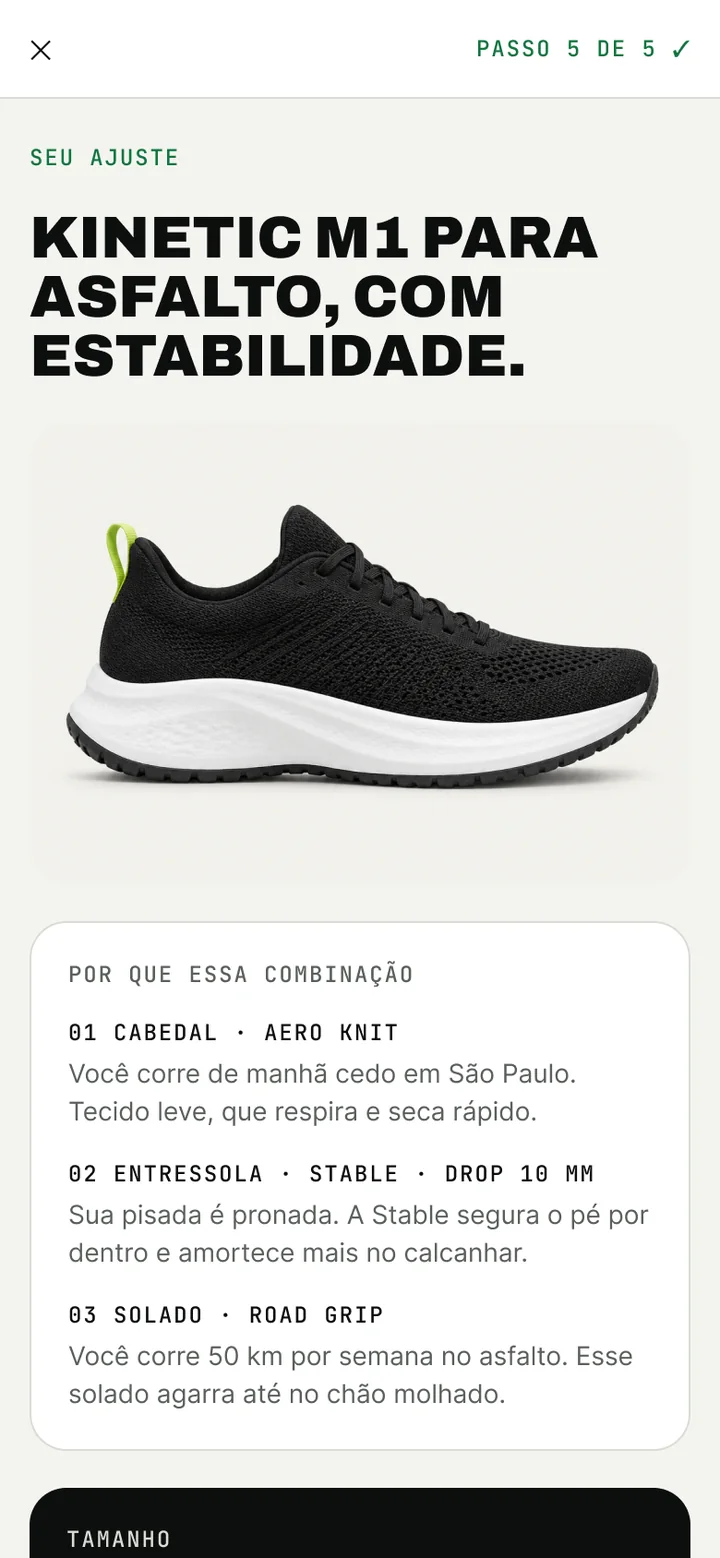
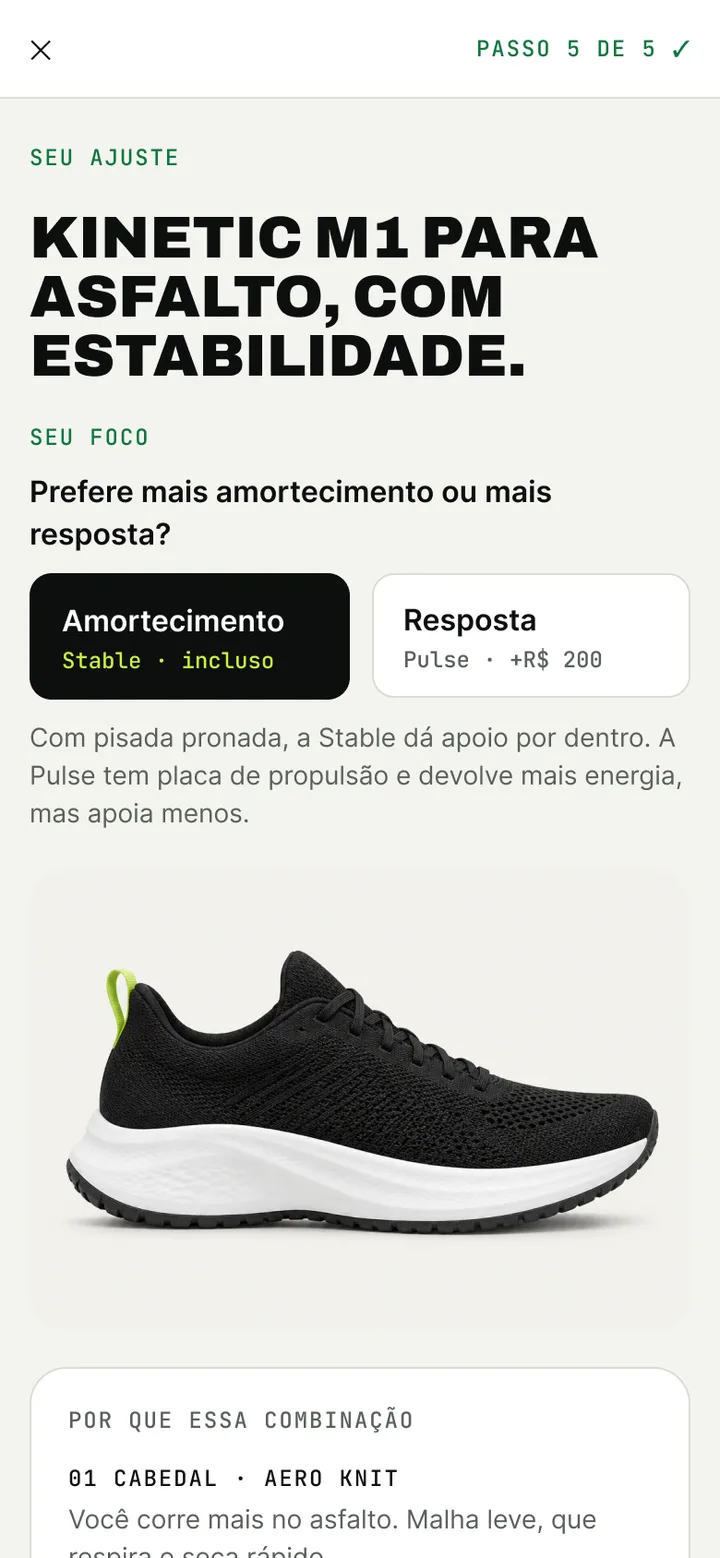
feat(kinetic): releitura do brief, tela do Pix e plano de medição
- Questionário pergunta número (34 a 45) e largura do pé
- Recomendação cita só o que a pessoa respondeu e oferece o foco
  amortecimento (Stable) ou resposta (Pulse)
- Nova tela do Pix com "Copiar código" em destaque
- Tabela com as lacunas do brief e como ficaram
- Seção "Como saber se funcionou" com eventos e metas

Changed region(s): [[0.0306, 0.5854, 0.9778, 1.0], [0.0306, 0.2773, 0.9472, 0.5546]]

diff --git a/estudo-de-caso-kineticlab.html b/estudo-de-caso-kineticlab.html
@@ -340,7 +340,7 @@ footer .wrap{display:flex;flex-wrap:wrap;justify-content:space-between;gap:10px}
     <div class="tldr">
       <div class="card rv"><span class="k">Desafio</span><p>Pelo brief, 68% do abandono de carrinho vem da dúvida de tamanho. E um tênis modular ainda precisa explicar o que cada peça faz antes de alguém pagar R$ 1.599.</p></div>
       <div class="card rv"><span class="k">O que fiz</span><p>Um questionário que recomenda tênis e tamanho, uma página de produto que já abre configurada e um checkout em uma tela, com frete e garantia visíveis antes do pagamento.</p></div>
-      <div class="card rv"><span class="k">Resultado até aqui</span><p class="big">18 <small>telas e estados no protótipo</small></p><p>cobrindo as 3 tarefas do teste de usabilidade com 2 pessoas, marcado para 16/11. O resultado entra nesta página depois.</p></div>
+      <div class="card rv"><span class="k">Resultado até aqui</span><p class="big">20 <small>telas e estados no protótipo</small></p><p>cobrindo as 3 tarefas do teste de usabilidade com 2 pessoas, marcado para 16/11. O resultado entra nesta página depois.</p></div>
     </div>
   </section>
 
@@ -395,12 +395,12 @@ footer .wrap{display:flex;flex-wrap:wrap;justify-content:space-between;gap:10px}
       <div class="part-text rv">
         <span class="tag">1 · Encontre seu ajuste</span>
         <p class="q">"Qual tamanho eu peço?"</p>
-        <p>São cinco perguntas curtas: pisada, número que a pessoa costuma usar, quilômetros por semana, terreno e faixa de peso. Quase todas têm a opção "Não sei", e tocar numa resposta já leva à próxima.</p>
-        <p>A recomendação explica cada peça ("sua pisada é pronada, a Stable segura o pé por dentro"). O tamanho vem com "veste como seu número habitual" e troca grátis em 30 dias.</p>
+        <p>São cinco perguntas curtas: pisada, número e largura do pé, quilômetros por semana, terreno e faixa de peso. Quase todas têm a opção "Não sei". Quando a pergunta tem uma resposta só, tocar numa opção já leva à próxima. Na do tamanho, a pessoa marca o número e a largura e toca em Continuar.</p>
+        <p>A recomendação explica cada peça com o que a pessoa respondeu ("sua pisada é pronada e você prefere amortecimento"). No topo, ela escolhe o foco: amortecimento, com a Stable, ou resposta, com a Pulse, que custa R$ 200 a mais. O tamanho leva a largura em conta: quem tem pé largo sobe um número. Se ficar justo, a troca é grátis em 30 dias.</p>
       </div>
       <div class="phones rv">
         <figure class="phone"><img src="assets/projects/kineticlab-case/quiz.webp" width="360" height="779" loading="lazy" alt="Questionário, passo 1 de 5: Como seu pé toca o chão, com as opções Pronada, Neutra, Supinada e Não sei."></figure>
-        <figure class="phone"><img src="assets/projects/kineticlab-case/recomendacao.webp" width="360" height="779" loading="lazy" alt="Recomendação com o motivo de cada peça e o tamanho 37 em destaque."></figure>
+        <figure class="phone"><img src="assets/projects/kineticlab-case/recomendacao.webp" width="360" height="779" loading="lazy" alt="Recomendação: no topo, a escolha entre Amortecimento (Stable) e Resposta (Pulse, mais R$ 200), e abaixo a foto do tênis."></figure>
       </div>
     </div>
 
@@ -439,6 +439,7 @@ footer .wrap{display:flex;flex-wrap:wrap;justify-content:space-between;gap:10px}
         <span class="tag">4 · Frete e garantia antes de pagar</span>
         <p class="q">"Quanto vou pagar no total?"</p>
         <p>O frete aparece pelo CEP já na página do produto e se repete na sacola e no checkout. O botão diz o valor e a forma de pagamento: "Pagar R$ 1.788 com Pix".</p>
+        <p>No Pix, o botão principal copia o código. Quem compra pelo celular não consegue ler o QR Code na própria tela, então o QR fica embaixo, para quem paga de outro aparelho.</p>
         <p>Quando o pagamento é recusado, a tela diz que nada foi cobrado, que a sacola continua salva e oferece o Pix como saída.</p>
       </div>
       <div class="phones rv">
@@ -459,7 +460,7 @@ footer .wrap{display:flex;flex-wrap:wrap;justify-content:space-between;gap:10px}
 
   <!-- 04 REVISÃO -->
   <section class="wrap" id="revisao">
-    <div class="sec-head rv"><span class="num">04</span><h2>A revisão antes do teste</h2><p>Antes da interface final, reli os wireframes com o brief e o roteiro do teste do lado. Duas tarefas eram impossíveis no wireframe.</p></div>
+    <div class="sec-head rv"><span class="num">04</span><h2>A revisão antes do teste</h2><p>Fiz duas revisões antes do teste. Na primeira, reli os wireframes com o brief e o roteiro do teste do lado, e duas tarefas eram impossíveis. Na segunda, já com as telas prontas, reli o brief item por item.</p></div>
     <div class="part">
       <div class="phones rv">
         <figure><div class="phone"><img src="assets/projects/kineticlab-case/wireframe-pdp.webp" width="360" height="779" loading="lazy" alt="Wireframe da página do produto em tons de cinza, com prévia vazia, chips sem explicação e tamanhos de 35 a 40."></div><figcaption>Wireframe</figcaption></figure>
@@ -474,6 +475,28 @@ footer .wrap{display:flex;flex-wrap:wrap;justify-content:space-between;gap:10px}
             <tr><td class="before">O checkout escondia o frete no resumo recolhido</td><td>Frete e prazo no bloco de entrega e na barra fixa</td></tr>
             <tr><td class="before">Tamanhos de 35 a 40</td><td>De 34 a 45, com rolagem; o esgotado continua na grade, em cinza</td></tr>
             <tr><td class="before">"drop 10", sem unidade</td><td>"drop 10 mm" e a ajuda "O que é drop?"</td></tr>
+          </tbody>
+        </table>
+      </div>
+    </div>
+
+    <h3 class="rv" style="margin-top:48px">A releitura do brief</h3>
+    <p class="rv" style="max-width:68ch">Abri o PDF do brief e conferi cada pedido abrindo as telas no Figma. Achei sete lacunas e corrigi as que não atrapalhavam o teste.</p>
+    <div class="part" style="margin-top:20px">
+      <div class="phones rv">
+        <figure><div class="phone"><img src="assets/projects/kineticlab-case/quiz-tamanho.webp" width="360" height="779" loading="lazy" alt="Passo 2 de 5 do questionário: grade de tamanhos de 34 a 45 e três opções de largura do pé, Fino, Médio e Largo."></div><figcaption>Passo 2 novo</figcaption></figure>
+        <figure><div class="phone"><img src="assets/projects/kineticlab-case/pix.webp" width="360" height="779" loading="lazy" alt="Tela do Pix: total de R$ 1.788, validade do código, botão Copiar código Pix e o QR Code para pagar de outro aparelho."></div><figcaption>Tela do Pix</figcaption></figure>
+      </div>
+      <div class="table-wrap rv">
+        <table class="stack">
+          <thead><tr><th scope="col">O brief pedia</th><th scope="col">Como estava</th><th scope="col">Como ficou</th></tr></thead>
+          <tbody>
+            <tr><td>Tamanho "com base na anatomia do pé"</td><td class="before">Só o número, entre 36, 37 e 38</td><td>Grade de 34 a 45 e a largura do pé</td></tr>
+            <tr><td>Perguntar o foco: amortecimento ou resposta</td><td class="before">Não era perguntado</td><td>Escolha no topo da recomendação. Não virou o sexto passo porque a matriz CSD supõe que mais de cinco passos fazem gente desistir</td></tr>
+            <tr><td>Recomendação baseada nas respostas</td><td class="before">Citava "manhã cedo em São Paulo" e "50 km por semana", que ninguém tinha informado</td><td>Cada motivo cita uma resposta do questionário</td></tr>
+            <tr><td>"Pix com QR Code instantâneo"</td><td class="before">O checkout prometia o QR, mas a tela não existia</td><td>Tela do Pix, com "Copiar código" em destaque</td></tr>
+            <tr><td>Frete "via detecção de localização ou CEP"</td><td class="before">Só CEP</td><td>"Usar minha localização" ao lado do CEP</td></tr>
+            <tr><td>Tíquete maior com o segundo solado</td><td class="before">Oferecido só no desktop</td><td>Fica para depois do teste: na página do produto, um card "Solado Trail Lug + Adicionar" competiria com a tarefa 2, que pede para trocar o solado</td></tr>
           </tbody>
         </table>
       </div>
@@ -543,23 +566,54 @@ footer .wrap{display:flex;flex-wrap:wrap;justify-content:space-between;gap:10px}
     </ol>
   </section>
 
-  <!-- 09 LIMITES -->
+  <!-- 09 MEDIÇÃO -->
+  <section class="wrap" id="medicao">
+    <div class="sec-head rv"><span class="num">09</span><h2>Como saber se funcionou</h2><p>O teste com 2 pessoas mostra onde alguém trava, mas não mede as metas do brief. Para isso, o site precisa registrar alguns eventos, e cada meta precisa de uma conta e de um número que não pode piorar.</p></div>
+    <div class="table-wrap rv">
+      <table class="stack">
+        <thead><tr><th scope="col">Meta do brief</th><th scope="col">Como calcular</th><th scope="col">O que não pode piorar</th></tr></thead>
+        <tbody>
+          <tr><td>Conversão de 1,8% para 3,2%</td><td>Pedidos pagos ÷ sessões</td><td>Pagamentos recusados e Pix expirados</td></tr>
+          <tr><td>Devolução por tamanho de 22% para menos de 6%</td><td>Devoluções por tamanho ou largura ÷ pares entregues, em 30 dias, separando quem seguiu o tamanho recomendado de quem mudou</td><td>Custo de devolver tênis já usado</td></tr>
+          <tr><td>Configurador usado por mais de 45%</td><td>Sessões que concluíram o questionário ou trocaram uma peça ÷ sessões que viram o produto</td><td>Tempo até adicionar à sacola</td></tr>
+          <tr><td>Tíquete médio 25% maior</td><td>Receita ÷ pedidos, com a parcela de pedidos com acessório ou segundo solado</td><td>Conversão</td></tr>
+        </tbody>
+      </table>
+    </div>
+    <p class="cap rv">Para comparar as duas versões num teste A/B, são necessárias umas 2.000 sessões em cada uma para enxergar a conversão subir de 1,8% para 3,2%.</p>
+
+    <h3 class="rv" style="margin-top:40px">Impacto estimado</h3>
+    <div class="table-wrap rv">
+      <table class="price">
+        <thead><tr><th scope="col">A cada 10.000 sessões</th><th scope="col">Pedidos</th><th scope="col">Receita</th></tr></thead>
+        <tbody>
+          <tr><td data-l="Cenário">Hoje, 1,8%</td><td data-l="Pedidos">180</td><td data-l="Receita">R$ 324.000</td></tr>
+          <tr><td data-l="Cenário">Metade do caminho, 2,5%</td><td data-l="Pedidos">250</td><td data-l="Receita">R$ 450.000</td></tr>
+          <tr><td data-l="Cenário">Meta do brief, 3,2%</td><td data-l="Pedidos">320</td><td data-l="Receita">R$ 576.000</td></tr>
+        </tbody>
+      </table>
+    </div>
+    <p class="note rv" style="margin-top:16px"><b>Estimativa:</b> é um cenário montado com os números do brief e tíquete médio de R$ 1.800, o meio da faixa. Não é uma previsão. Antes de ter dados, eu defenderia o do meio.</p>
+  </section>
+
+  <!-- 10 LIMITES -->
   <section class="wrap" id="limites">
-    <div class="sec-head rv"><span class="num">09</span><h2>Limites e perguntas em aberto</h2><p>Antes de chamar o projeto de pronto, faltam estas coisas.</p></div>
+    <div class="sec-head rv"><span class="num">10</span><h2>Limites e perguntas em aberto</h2><p>Antes de chamar o projeto de pronto, faltam estas coisas.</p></div>
     <ul class="open">
       <li class="rv"><span class="lvl alta">Alta</span><b>A pesquisa é simulada</b><p>Personas, entrevistas e citações são fictícias. Até o teste de 16/11, nenhuma pessoa real usou o produto.</p></li>
       <li class="rv"><span class="lvl alta">Alta</span><b>Duas pessoas é pouco</b><p>O teste mostra onde alguém trava, mas não mede conversão nem devolução, que são as metas do brief.</p></li>
       <li class="rv"><span class="lvl media">Média</span><b>A primeira pergunta é a mais difícil</b><p>O questionário abre pela pisada, que a maioria das pessoas não sabe responder. Vou observar no teste se alguém trava ali; se travar, a pisada vai para o fim.</p></li>
-      <li class="rv"><span class="lvl media">Média</span><b>O tamanho ainda depende do número habitual</b><p>A opção "me ajude a medir o pé com uma folha A4" existe no questionário, mas a tela de medição não foi desenhada.</p></li>
-      <li class="rv"><span class="lvl media">Média</span><b>Metas sem plano de medição</b><p>Faltam os eventos que diriam se o design funciona: questionário concluído, tamanho aceito, módulo trocado, acessório adicionado e devolução por tamanho.</p></li>
-      <li class="rv"><span class="lvl media">Média</span><b>O protótipo tem atalhos</b><p>Os chips que não entram nas tarefas não respondem ao toque, e o checkout sempre mostra os 2 itens.</p></li>
+      <li class="rv"><span class="lvl media">Média</span><b>A medição do pé não existe</b><p>O questionário pergunta o número e a largura, mas a opção "me ajude a medir o pé com uma folha A4" ainda não tem tela.</p></li>
+      <li class="rv"><span class="lvl media">Média</span><b>Segundo solado só no desktop</b><p>A meta de tíquete médio conta com a venda do segundo solado. No celular, ele entra depois do teste, para não atrapalhar a tarefa 2.</p></li>
+      <li class="rv"><span class="lvl media">Média</span><b>Desktop incompleto</b><p>O desktop tem Home, página do produto e checkout. Faltam o catálogo e um estado de erro.</p></li>
+      <li class="rv"><span class="lvl media">Média</span><b>O protótipo tem atalhos</b><p>Os chips que não entram nas tarefas não respondem ao toque, e o checkout sempre mostra os 2 itens. Quem escolhe a Pulse na recomendação vê a página do produto com a Stable.</p></li>
       <li class="rv"><span class="lvl media">Média</span><b>Imagens geradas por IA</b><p>A foto do cabedal Storm mostra um tênis com outra sola. Serve de ilustração, mas não é o M1.</p></li>
     </ul>
   </section>
 
-  <!-- 10 APRENDIZADOS -->
+  <!-- 11 APRENDIZADOS -->
   <section class="wrap" id="aprendizados">
-    <div class="sec-head rv"><span class="num">10</span><h2>Aprendizados</h2></div>
+    <div class="sec-head rv"><span class="num">11</span><h2>Aprendizados</h2></div>
     <p class="quote rv">A conta de economia do brief estava errada. Desde então leio o enunciado como leio uma tela: procurando o que não fecha.</p>
 
     <div class="learn">
@@ -575,7 +629,7 @@ footer .wrap{display:flex;flex-wrap:wrap;justify-content:space-between;gap:10px}
       <li><iconify-icon icon="lucide:mic"></iconify-icon>Perguntar a cinco corredores reais se já desistiram de comprar tênis online por causa do tamanho e se sabem a própria pisada.</li>
       <li><iconify-icon icon="lucide:list-ordered"></iconify-icon>Testar outra ordem no questionário, começando por tamanho e terreno.</li>
       <li><iconify-icon icon="lucide:ruler"></iconify-icon>Desenhar a medição do pé com uma folha A4.</li>
-      <li><iconify-icon icon="lucide:activity"></iconify-icon>Definir os eventos que medem cada meta do brief.</li>
+      <li><iconify-icon icon="lucide:layers"></iconify-icon>Oferecer o segundo solado no celular, depois do teste.</li>
     </ul>
 
     <div class="end rv" style="margin-top:56px">
